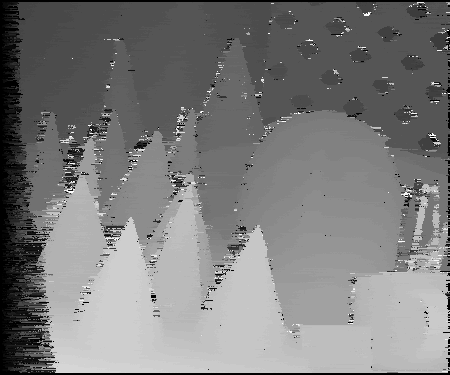
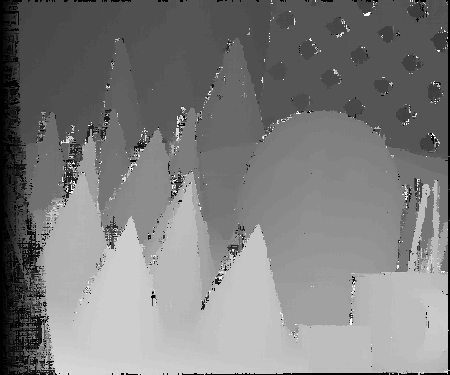
2022_07_13_UpDownAggregation

diff --git a/SGMUtil.cpp b/SGMUtil.cpp
@@ -45,7 +45,7 @@ uint8 SGMUtil::hamming32(const uint32 &x, const uint32 &y) {
     return dist;
 }
 
-void SGMUtil::costAggregateLeftRight(const uint8 *imgData, const uint32 &width, const uint32 &height,
+void SGMUtil::costAggregateLeftRight(const uint8 *imgData, const sint32 &width, const sint32 &height,
                                      const sint32 &minDisparity, const sint32 &maxDisparity, const sint32 &p1,
                                      const sint32 &p2Init, const uint8 *costInit, uint8 *costAggr, bool isForward) {
     assert(width > 0 && height > 0 && maxDisparity > minDisparity);
@@ -98,7 +98,8 @@ void SGMUtil::costAggregateLeftRight(const uint8 *imgData, const uint32 &width, 
                 const uint16 l2 = costLastPath[d] + P1;
                 const uint16 l3 = costLastPath[d + 2] + P1;
                 const uint16 l4 = minCostLastPath + std::max(P1, P2Init / (abs(gray - grayLast) + 1));
-                uint8 costNew = cost + static_cast<uint8>(std::min(std::min(l1, l2), std::min(l3, l4)) - minCostLastPath);
+                uint8 costNew =
+                        cost + static_cast<uint8>(std::min(std::min(l1, l2), std::min(l3, l4)) - minCostLastPath);
                 costAggrRow[d] = costNew;
                 minCost = std::min(minCost, costNew);
             }
@@ -115,4 +116,82 @@ void SGMUtil::costAggregateLeftRight(const uint8 *imgData, const uint32 &width, 
             grayLast = gray;
         }
     }
+}
+
+void SGMUtil::costAggregateUpDown(const uint8 *imgData, const sint32 &width, const sint32 &height,
+                                  const sint32 &minDisparity, const sint32 &maxDisparity, const sint32 &p1,
+                                  const sint32 &p2Init, const uint8 *costInit, uint8 *costAggr, bool isForward) {
+    assert(width > 0 && height > 0 && maxDisparity > minDisparity);
+    // 视差范围
+    const sint32 dispRange = maxDisparity - minDisparity;
+    // P1,P2
+    const auto &P1 = p1;
+    const auto &P2Init = p2Init;
+
+    // 正向(上->下) ：is_forward = true ; direction = 1
+    // 反向(下->上) ：is_forward = false; direction = -1;
+    const sint32 direction = isForward ? 1 : -1;
+
+    // 聚合
+    for (sint32 j = 0; j < width; j++) {
+        // 路径头为每一列的首(尾,dir=-1)行像素
+        auto costInitCol = (isForward) ? (costInit + j * dispRange) : (costInit + (height - 1) * width * dispRange +
+                                                                       j * dispRange);
+        auto costAggrCol = (isForward) ? (costAggr + j * dispRange) : (costAggr + (height - 1) * width * dispRange +
+                                                                       j * dispRange);
+        auto imgCol = (isForward) ? (imgData + j) : (imgData + (height - 1) * width + j);
+
+        // 路径上当前灰度值和上一个灰度值
+        uint8 gray = *imgCol;
+        uint8 grayLast = *imgCol;
+
+        // 路径上上个像素的代价数组，多两个元素是为了避免边界溢出（首尾各多一个）
+        std::vector<uint8> costLastPath(dispRange + 2, UINT8_MAX);
+
+        // 初始化：第一个像素的聚合代价值等于初始代价值
+        memcpy(costAggrCol, costInitCol, dispRange * sizeof(uint8));
+        memcpy(&costLastPath[1], costAggrCol, dispRange * sizeof(uint8));
+        costInitCol += direction * width * dispRange;
+        costAggrCol += direction * width * dispRange;
+        imgCol += direction * width;
+
+        // 路径上上个像素的最小代价值
+        uint8 minCostLastPath = UINT8_MAX;
+        for (auto cost: costLastPath) {
+            minCostLastPath = std::min(minCostLastPath, cost);
+        }
+
+        // 自方向上第2个像素开始按顺序聚合
+        for (sint32 i = 0; i < height - 1; i++) {
+            gray = *imgCol;
+            uint8 minCost = UINT8_MAX;
+            for (sint32 d = 0; d < dispRange; d++) {
+                // Lr(p,d) = C(p,d) + min( Lr(p-r,d), Lr(p-r,d-1) + P1, Lr(p-r,d+1) + P1, min(Lr(p-r))+P2 ) - min(Lr(p-r))
+                const uint8 cost = costInitCol[d];
+
+                const uint16 l1 = costLastPath[d + 1];
+                const uint16 l2 = costLastPath[d] + P1;
+                const uint16 l3 = costLastPath[d + 2] + P1;
+                const uint16 l4 = minCostLastPath + std::max(P1, P2Init / (abs(gray - grayLast) + 1));
+
+                const uint8 costNew =
+                        cost + static_cast<uint8>(std::min(std::min(l1, l2), std::min(l3, l4)) - minCostLastPath);
+                costAggrCol[d] = costNew;
+                minCost = std::min(minCost, costNew);
+            }
+
+            // 重置上个像素的最小代价值和代价数组
+            minCostLastPath = minCost;
+            memcpy(&costLastPath[1], costAggrCol, dispRange * sizeof(uint8));
+
+            // 下一个像素
+            costInitCol += direction * width * dispRange;
+            costAggrCol += direction * width * dispRange;
+            imgCol += direction * width;
+
+            // 像素值重新赋值
+            grayLast = gray;
+        }
+    }
+
 }

diff --git a/SGMUtil.h b/SGMUtil.h
@@ -16,10 +16,10 @@ namespace SGMUtil {
 
     /**
      * \brief census变换
-     * \param source	输入，图像数据
-     * \param census	输出，census值数组
-     * \param width		输入，图像宽
-     * \param height	输入，图像高
+     * \param source    输入，图像数据
+     * \param census    输出，census值数组
+     * \param width     输入，图像宽
+     * \param height    输入，图像高
      */
     void censusTransform5x5(const uint8 *source, uint32 *census, const uint32 &width, const uint32 &height);
 
@@ -30,8 +30,38 @@ namespace SGMUtil {
 
     uint8 hamming64(const uint64 &x, const uint64 &y);
 
+    /**
+     * \brief 左右路径聚合 → ←
+     * \param img_data          输入，影像数据
+     * \param width             输入，影像宽
+     * \param height            输入，影像高
+     * \param min_disparity     输入，最小视差
+     * \param max_disparity     输入，最大视差
+     * \param p1                输入，惩罚项P1
+     * \param p2_init           输入，惩罚项P2_Init
+     * \param cost_init         输入，初始代价数据
+     * \param cost_aggr         输出，路径聚合代价数据
+     * \param is_forward        输入，是否为正方向（正方向为从左到右，反方向为从右到左）
+     */
     void
-    costAggregateLeftRight(const uint8 *imgData, const uint32 &width, const uint32 &height, const sint32 &minDisparity,
+    costAggregateLeftRight(const uint8 *imgData, const sint32 &width, const sint32 &height, const sint32 &minDisparity,
+                           const sint32 &maxDisparity, const sint32 &p1, const sint32 &p2Init, const uint8 *costInit,
+                           uint8 *costAggr, bool isForward);
+    /**
+     * \brief 上下路径聚合 ↓ ↑
+     * \param img_data           输入，影像数据
+     * \param width              输入，影像宽
+     * \param height             输入，影像高
+     * \param min_disparity      输入，最小视差
+     * \param max_disparity      输入，最大视差
+     * \param p1                 输入，惩罚项P1
+     * \param p2_init            输入，惩罚项P2_Init
+     * \param cost_init          输入，初始代价数据
+     * \param cost_aggr          输出，路径聚合代价数据
+     * \param is_forward         输入，是否为正方向（正方向为从上到下，反方向为从下到上）
+     */
+    void
+    costAggregateUpDown(const uint8 *imgData, const sint32 &width, const sint32 &height, const sint32 &minDisparity,
                            const sint32 &maxDisparity, const sint32 &p1, const sint32 &p2Init, const uint8 *costInit,
                            uint8 *costAggr, bool isForward);
 };

diff --git a/SemiGlobalMatching.cpp b/SemiGlobalMatching.cpp
@@ -165,16 +165,16 @@ void SemiGlobalMatching::costAggregation() const {
     SGMUtil::costAggregateLeftRight(imgLeft_, width_, height_, minDisparity, maxDisparity, P1, P2Int, costInit_,
                                     costAggr2_, false);
     // 上下聚合
-//    SGMUtil::costAggregateUpDown(img_left_, width_, height_, min_disparity, max_disparity, P1, P2_Int, cost_init_,
-//                                 cost_aggr_3_, true);
-//    SGMUtil::costAggregateUpDown(img_left_, width_, height_, min_disparity, max_disparity, P1, P2_Int, cost_init_,
-//                                 cost_aggr_4_, false);
+    SGMUtil::costAggregateUpDown(imgLeft_, width_, height_, minDisparity, maxDisparity, P1, P2Int, costInit_,
+                                 costAggr3_, true);
+    SGMUtil::costAggregateUpDown(imgLeft_, width_, height_, minDisparity, maxDisparity, P1, P2Int, costInit_,
+                                 costAggr4_, false);
 
 
     // 把4/8个方向加起来
     for (sint32 i = 0; i < size; i++) {
-        costAggr_[i] = costAggr1_[i] + costAggr2_[i];
-//        costAggr_[i] = costAggr1_[i] + costAggr2_[i] + cost_aggr_3_[i] + cost_aggr_4_[i];
+//        costAggr_[i] = costAggr1_[i] + costAggr2_[i];
+        costAggr_[i] = costAggr1_[i] + costAggr2_[i] + costAggr3_[i] + costAggr4_[i];
 //        if (option_.numPaths == 8) {
 //            costAggr_[i] += cost_aggr_5_[i] + cost_aggr_6_[i] + cost_aggr_7_[i] + cost_aggr_8_[i];
 //        }
@@ -186,6 +186,7 @@ void SemiGlobalMatching::computeDisparity() const {
     const sint32 &maxDisparity = option_.maxDisparity;
     const sint32 dispRange = maxDisparity - minDisparity;
 
+//    const auto *costPtr = costInit_;
     const auto *costPtr = costAggr_;
 
     // 逐像素计算最优视差

diff --git a/SemiGlobalMatching.h b/SemiGlobalMatching.h
@@ -76,10 +76,10 @@ private:
     SGMOption option_;
 
     /** \brief 图像宽 */
-    uint32 width_;
+    sint32 width_;
 
     /** \brief 图像高 */
-    uint32 height_;
+    sint32 height_;
 
     /** \brief 左图像数据 */
     const uint8 *imgLeft_;
